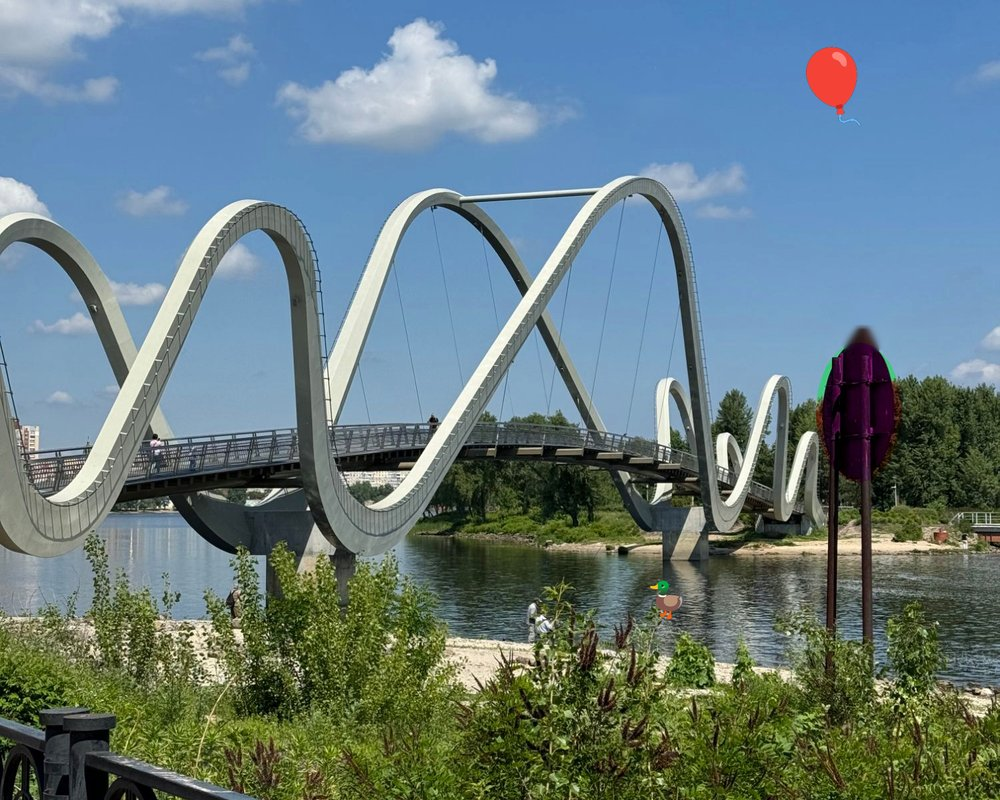
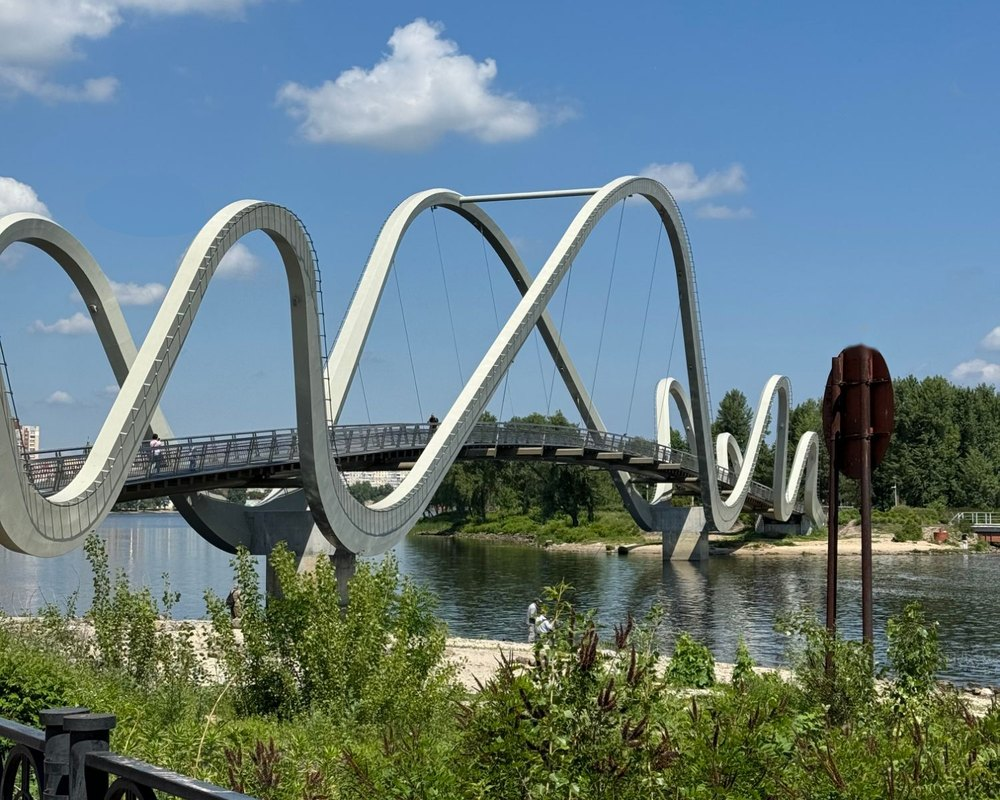
Spot-the-difference: realistic removals only (clouds and the bird)
Claude-Session: https://claude.ai/code/session_01JbU5zHVCv2hwVVQDG47u8B

diff --git a/index.html b/index.html
@@ -426,11 +426,11 @@ const QUESTIONS = [
     image:"photos/bridge_a.jpg", imageB:"photos/bridge_b.jpg", maxMiss:5,
     /* diffs — місця відмінностей у % (x,y — центр, r — радіус у % ширини фото) */
     diffs:[
-      { x:86.3, y:41.3, r:3.5 },   /* ворона на знаку зникла */
-      { x:65.7, y:11.9, r:5 },     /* маленька хмаринка зникла */
-      { x:85.9, y:51.5, r:7 },     /* знак змінив колір */
-      { x:83.3, y:10.8, r:5 },     /* у небі кулька */
-      { x:66.7, y:75, r:4 }        /* на воді качечка */
+      { x:65.7, y:11.9, r:4.5 },   /* маленька хмаринка зникла */
+      { x:15.3, y:25.3, r:5 },     /* хмаринка зліва над мостом зникла */
+      { x:23, y:7.7, r:5 },        /* хмаринка вгорі зліва зникла */
+      { x:98, y:9, r:4 },          /* хмаринка справа вгорі зникла */
+      { x:86.3, y:40.8, r:3.5 }    /* ворона на знаку зникла */
     ],
     ok:"Усі відмінності знайдено 🔍", no:"Не всі відмінності знайдено." },
 
